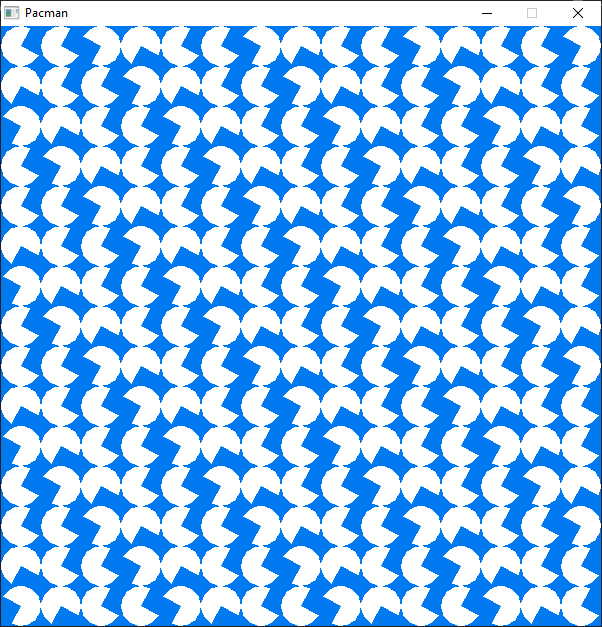
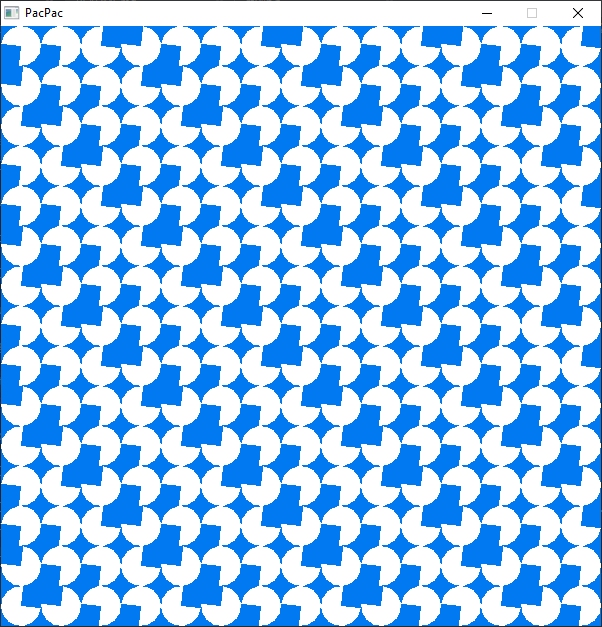
fix: Remove all mentions about a certain copyrighted character

diff --git a/examples/pacpac/main.c b/examples/pacpac/main.c
@@ -36,7 +36,7 @@ int main(void)
 	const int cols = screenWidth / size;
 	const int rows = screenHeigth / size;
 
-	InitWindow(screenWidth, screenHeigth, "Pacman");
+	InitWindow(screenWidth, screenHeigth, "PacPac");
 
 	while (!WindowShouldClose())
 	{
